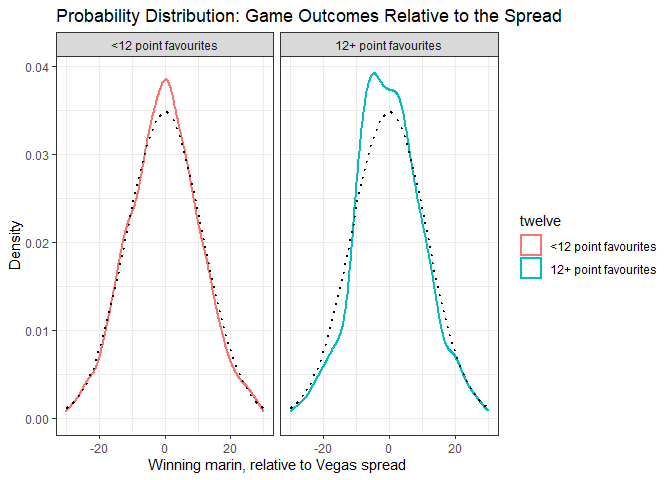
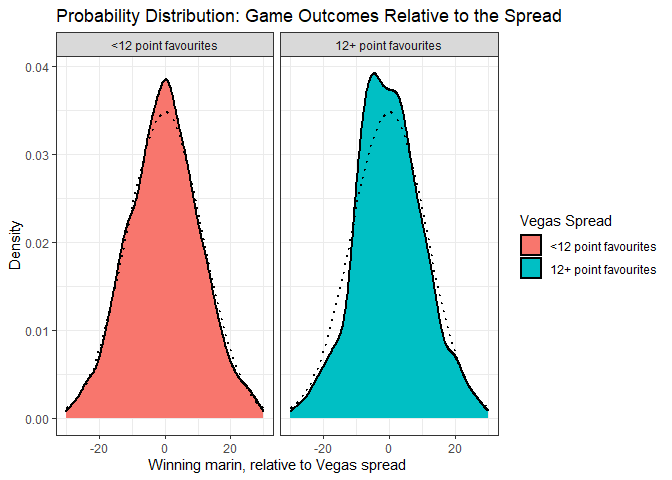
updated typos

Changed region(s): [[0.0938, 0.1562, 0.75, 0.875], [0.75, 0.4375, 0.9062, 0.5938]]

diff --git a/point-shaving-replication.md b/point-shaving-replication.md
@@ -26,11 +26,18 @@ df <- read_dta('betting_odds.dta')
 The dataset, while very clean, requires us to construct the spread
 between the difference in scores and the game spread.
 
+For some reason, the home team names are abreviated, while the away team
+names are in a more readable format. I’ve created the dictionary
+`names.csv` which maps the home\_team names to the away\_team names, and
+used this to update the home names.
+
 We are interested in the spread line `odds1`, the result of the spread
 `result1`, and whether the home or away team is favourited. We can
 deduce the better team from the sign of `odds1`, where a positive number
 indicates the home team is favourited, and a negative number favours the
-away team.
+away team. We can quickly check this by regressing the score difference
+on the vegas spread. A positive coefficient tells us the better the home
+team is, the higher the spread.
 
 We will construct a variable for the winning margin less the spread, and
 a dummy variable for games with a 12 point spread or greater.
@@ -44,7 +51,8 @@ df <- select(df, -fullname)
 
 # how do we interpret odds1?
 df <- mutate(df, score_diff = home_score - away_score) 
-lm(score_diff ~ odds1, data = df) #positibe beta => higher odds1, more favourited team 1 is.
+# positive beta => the higher odds1, the more favourited team 1 is.
+lm(score_diff ~ odds1, data = df) 
 ```
 
     ## 
@@ -69,11 +77,12 @@ df <- filter(df, !is.na(odds1))
 
 sd = sd(df$spread_margin)
 
-ggplot(df, aes(spread_margin, color = twelve)) + geom_density(size = 1) +
+ggplot(df, aes(spread_margin, fill = twelve)) + geom_density(size = 1) +
   stat_function(fun = function(x) dnorm(x, mean = 0, sd = sd),
                 color = "black", linetype = "dotted", size = 1) + 
   xlim(c(-30,30)) + 
   facet_wrap(.~twelve) + 
+  guides(fill=guide_legend(title="Vegas Spread")) +
   labs(title = "Probability Distribution: Game Outcomes Relative to the Spread", 
        y = "Density", x = "Winning marin, relative to Vegas spread") + 
   theme_bw()
@@ -87,7 +96,9 @@ cover the spread for games with a 12 point or greater spread.
 The next piece to examine is why choose a spread of 12 points. Why not
 11 or 13 points? To do this, lets look at the probability of a team
 covering the spread relative to the size of the spread for teams who do
-and do not cover. This will resemble Figure 3 of the paper.
+and do not cover. There is an obvious dropoff after the 12.5 point
+threshold. Since we are using NBA and not NCAA data, it is reasonable to
+expect the point threshold to differ slightly.
 
 ``` r
 df %>%
@@ -111,7 +122,10 @@ df %>%
 
 ![](README_figs/README-unnamed-chunk-4-1.png)<!-- -->
 
-What does each team’s probability of covering the spread look like?
+Last, we can look at each team on their own to see how often they are
+covering the spread. The third plot may be the most informative, showing
+the proportion of times each team covered the spread with a less than 12
+point spread, and with a 12 or greater point spread.
 
 ``` r
 # what is the cover rate for winning teams conditional on the spread?
@@ -168,9 +182,10 @@ df %>%
   mutate(n_team = n()) %>%
   filter(n_team > 1) %>%
   ggplot(aes(x=favourite, y=cover_percent)) + 
-  geom_line(alpha = 0.5, size = 1) + 
   geom_point(aes(reorder(favourite, cover_percent, mean), y=cover_percent, color = twelve), size = 2) + 
+  geom_line(alpha = 0.2, size = 1) + 
   coord_flip() + 
+  guides(color=guide_legend(title="Vegas Spread")) +
   labs(title = 'Percentage of games covering the spread by organization', 
            x = 'NBA Team', 
            y= 'Percentage') + 
